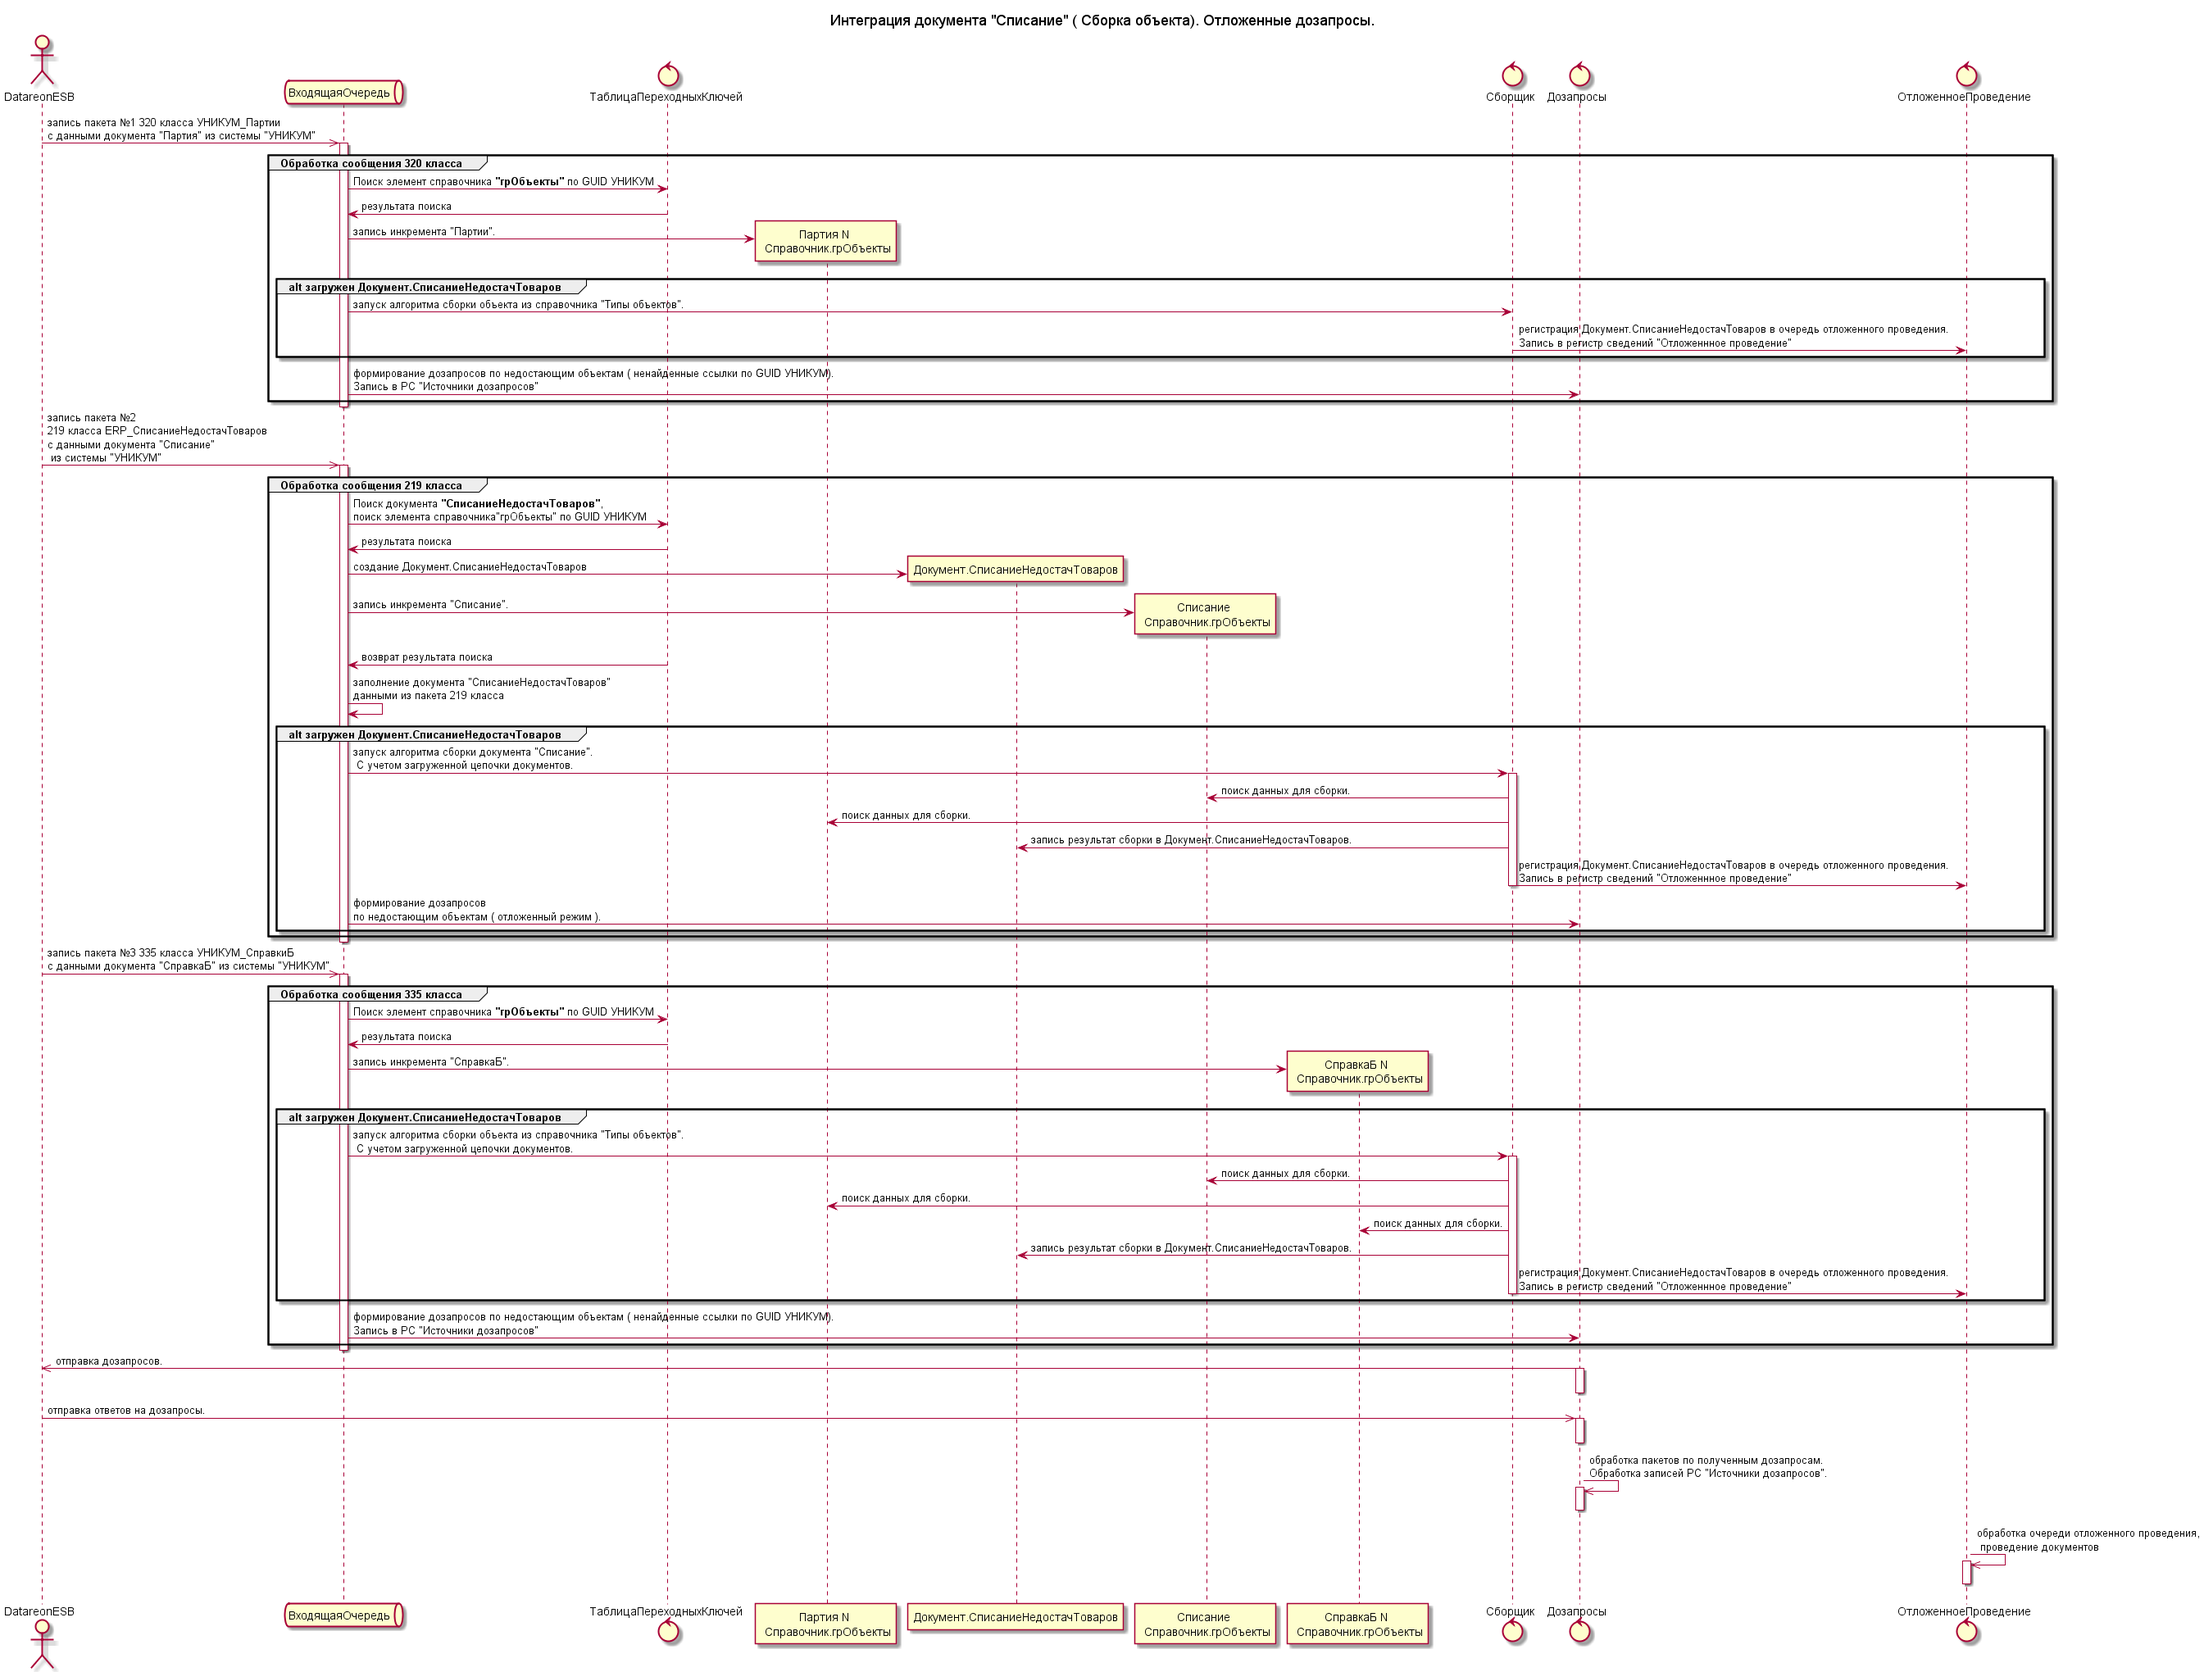
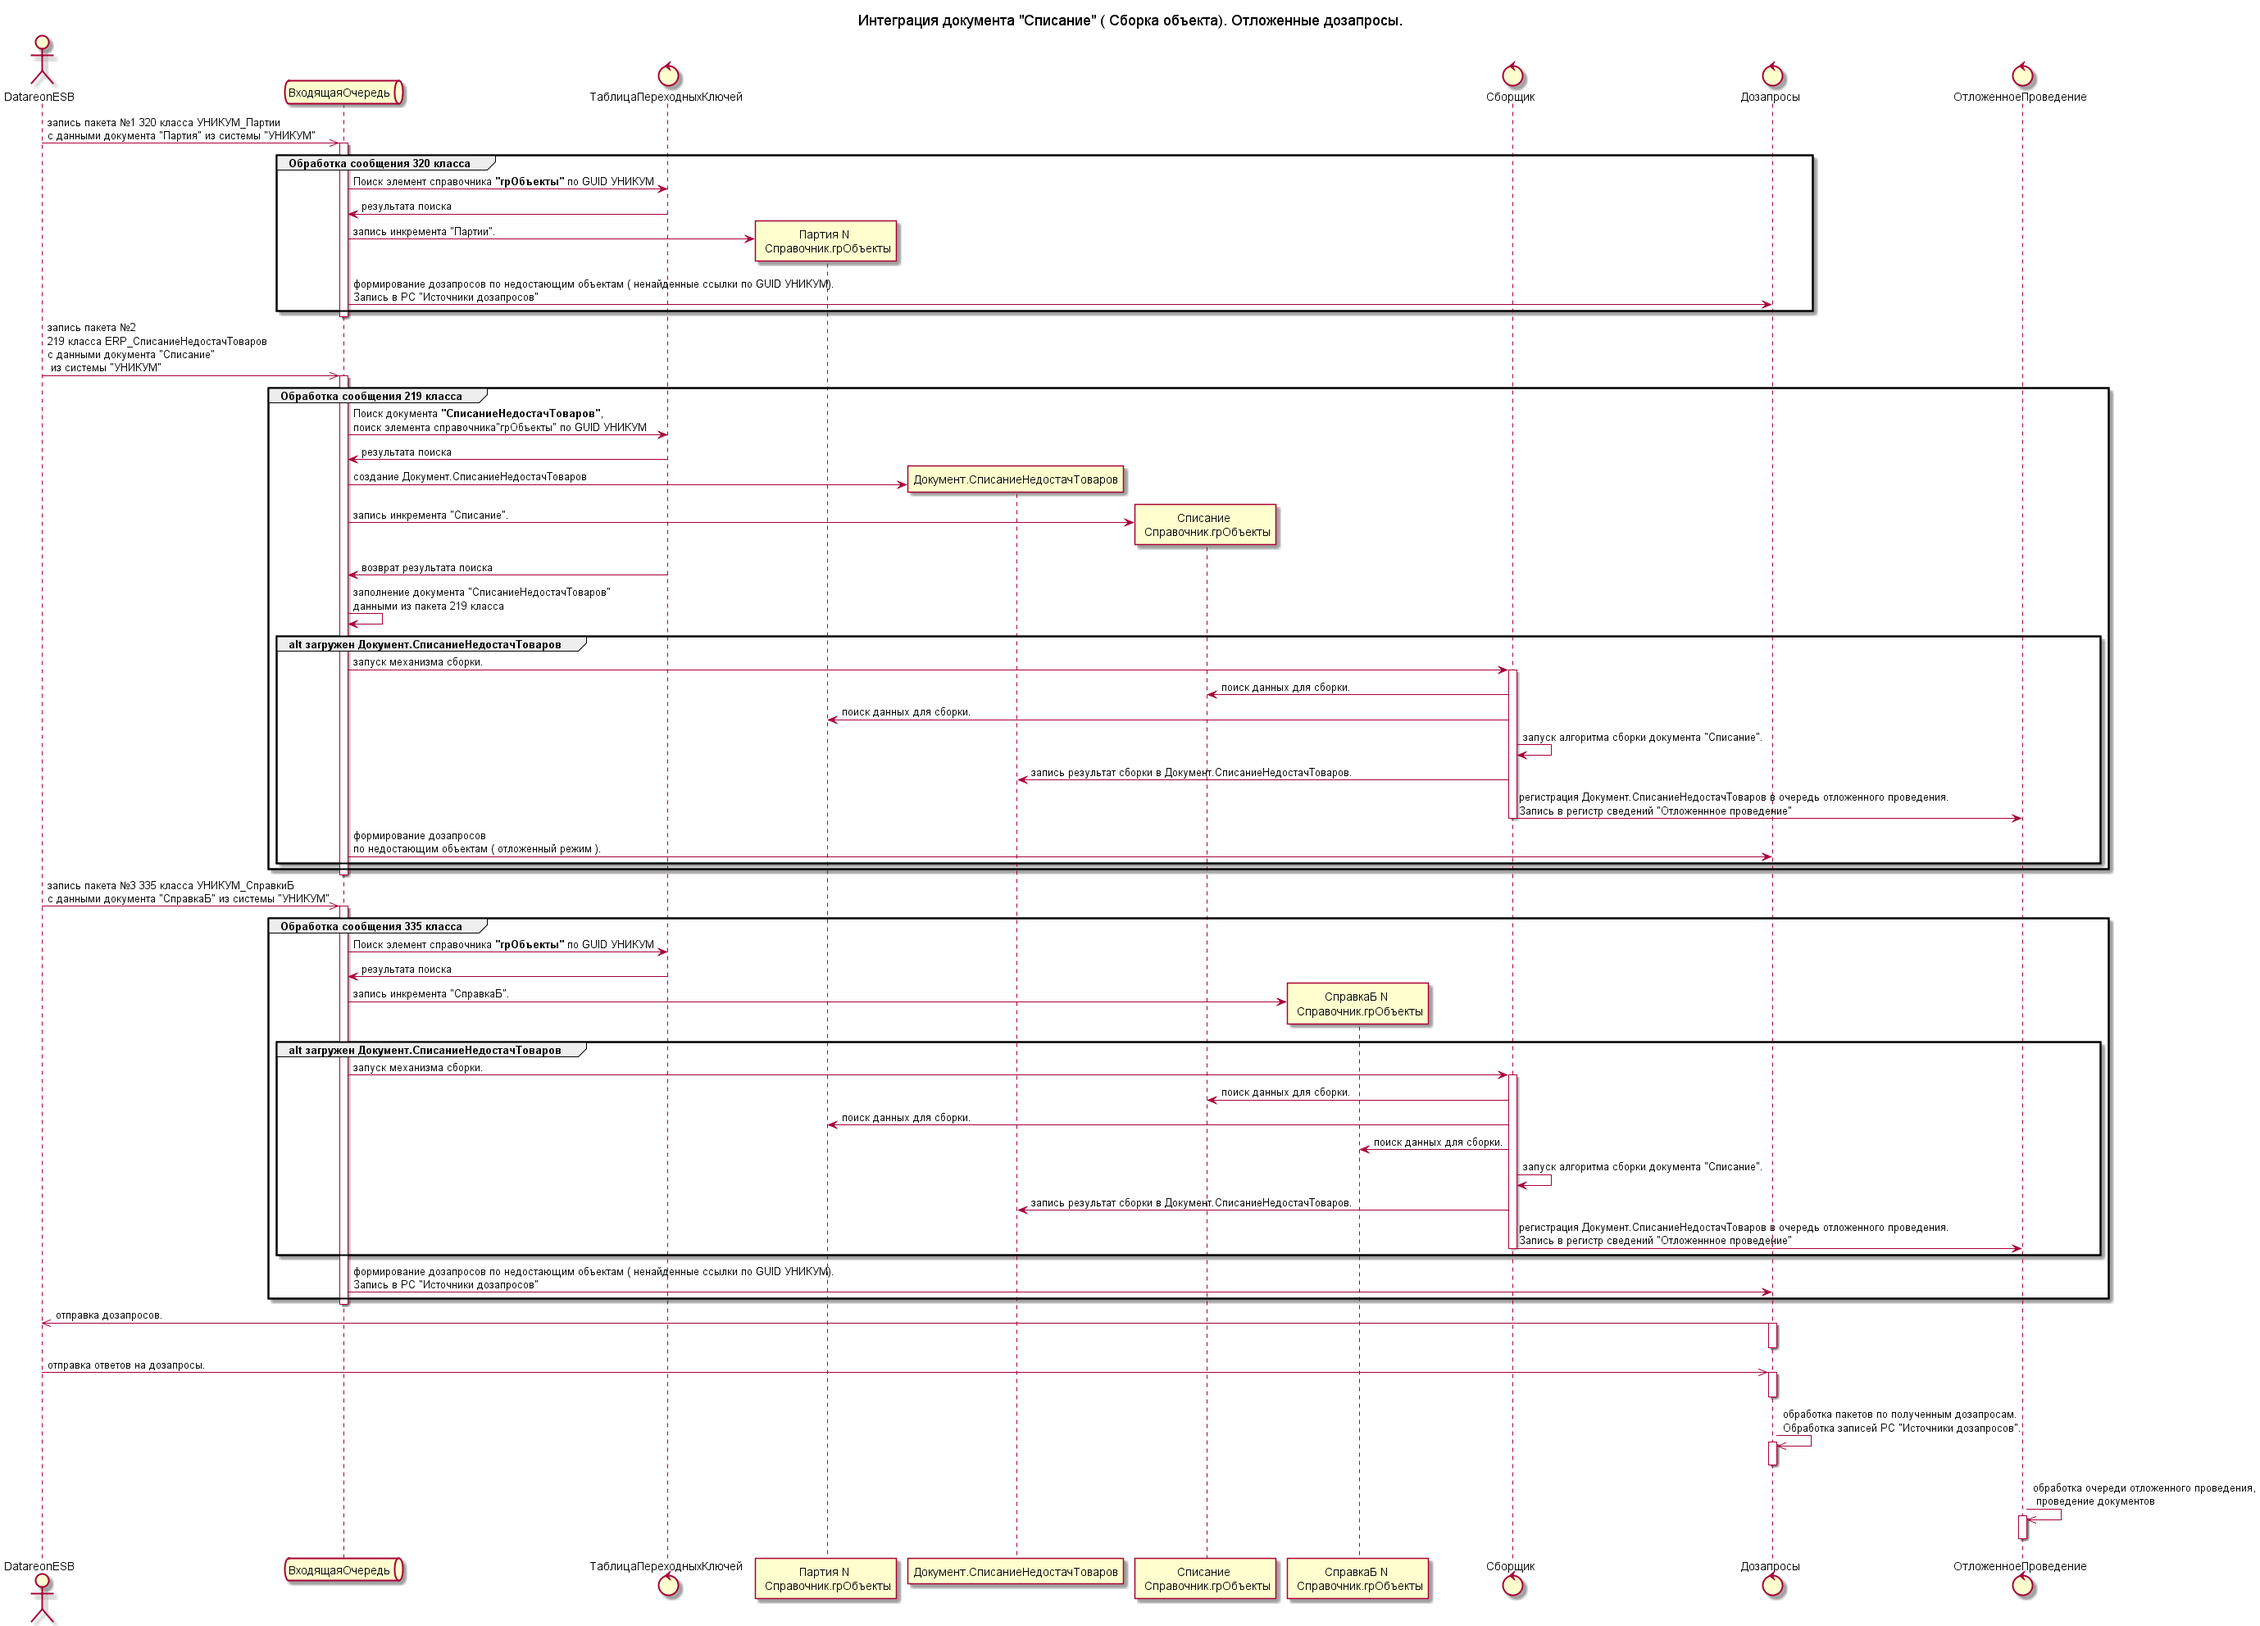
Обновление регламента

diff --git a/integration/description/README.md b/integration/description/README.md
@@ -19,7 +19,12 @@
 
 Описание примера :
 Документ "Списание недостач товаров" системы ЕРП формируется на основании документов системы УНИКУМ "Списание", "Партия", "СправкаБ".
+
 Документы "Списание", "Партия", "СправкаБ" могут загружаться в ЕРП в произвольном порядке.
+
+Глоссарий:
+
+- Интеграционный инкремент - объект системы источника, который участвует в формировании  объекта системы приемник. Например документ "Списание недостач товаров" , может быть сформирован из следующих инкрементов 1 документом "Списание", 1 документом "Партия", 3 документами "СправкаБ".
 
 ![Пример 1](./sheme_collector_adrequest_deferred/integration.png)
 
